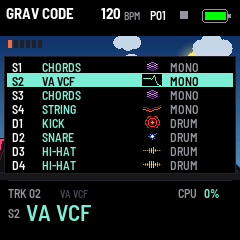
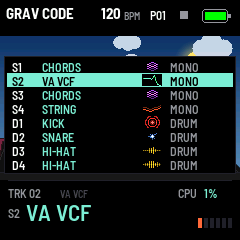
feat(grav-code): 0.29.1, the night alive; the heaps dark by day; the level at the bottom right
At night the moon is at the top right, its light shimmering, its glow breathing, a ripple of light going out from
it; the stars come out, shine, fade and come out again elsewhere, the brighter ones flashing at the hi-hats, and a
shooting star crosses now and then. By day the terricons are dark, their tracks' colours only on their rims. The
selected track's level moves to the right of HOME's bottom band.

diff --git a/grav-code/app.c b/grav-code/app.c
@@ -3483,6 +3483,37 @@ static void sky_light(int32_t cx, int32_t cy, float r, float g, uint16_t c, uint
     }
 }
 
+/* (0.29.1) the moon, at the top right: a crescent, its light shimmering, its glow breathing, a ripple of light going
+ * out from it now and again */
+static void draw_moon(int32_t cx, int32_t cy, int32_t base, float time)
+{
+    const float r = 12.0f, g = 16.0f + 3.0f * fm_sinf(time * 0.6f);
+    const float a = 0.22f + 0.08f * fm_sinf(time * 0.9f) + 0.05f * fm_sinf(time * 2.3f);
+    float ring = time * 5.0f;
+    ring -= fm_floorf(ring / 19.0f) * 19.0f;
+    const uint16_t lit = mix565(RGB(225, 222, 190), RGB(255, 251, 230), (int32_t)(128.0f + 127.0f * fm_sinf(time * 1.3f)));
+    const int32_t e = (int32_t)(r + g) + 2;
+    for (int32_t y = cy - e; y <= cy + e; y++) {
+        if (y < 0 || y >= base)
+            continue;
+        const uint16_t sky = sky_at(y, base);
+        for (int32_t x = cx - e; x <= cx + e; x++) {
+            const float fx = (float)(x - cx), fy = (float)(y - cy), d = fm_sqrtf(fx * fx + fy * fy);
+            if (d <= r) {                    /* the crescent: the disc but for its dark part */
+                const float ox = fx - 6.0f, oy = fy + 4.0f, dd = fm_sqrtf(ox * ox + oy * oy);
+                if (dd > 11.0f)              /* (softer towards the dark) */
+                    cv_rect(x, y, 1, 1, mix565(sky, lit, (int32_t)(256.0f * fm_minf(1.0f, (dd - 11.0f) * 0.7f + 0.35f))));
+                continue;
+            }
+            if (d > r + g)
+                continue;
+            const float k = 1.0f - (d - r) / g, w = d - r - ring;
+            const float glow = a * k * k + 0.12f * fm_expf(-w * w / 3.0f) * (1.0f - ring / 19.0f);
+            cv_rect(x, y, 1, 1, mix565(sky, RGB(230, 230, 205), (int32_t)(256.0f * fm_minf(1.0f, glow))));
+        }
+    }
+}
+
 static void draw_sky(int32_t base, uint32_t now)
 {
     if (set.sky == SKY_OFF)
@@ -3519,17 +3550,49 @@ static void draw_sky(int32_t base, uint32_t now)
             }
         }
     } else {
-        const float hat = sky_flare(LOOK_HAT, now, 90.0f);   /* the stars, twinkling at each hi-hat */
-        for (uint32_t i = 0; i < 46u; i++) {
-            const int32_t x = (int32_t)(ic_hash(i * 2u + 1u) % 240u), y = 4 + (int32_t)(ic_hash(i * 2u + 2u) % 92u);
-            const int bright = i % 3u == 0u;
-            if (y >= base)
+        const float hat = sky_flare(LOOK_HAT, now, 90.0f);
+        for (uint32_t i = 0; i < 56u; i++) { /* the stars (0.29.1): each comes out, shines a few seconds, fades and
+                                              * comes out again elsewhere; twinkling, the brighter flashing at each
+                                              * hi-hat; white, some bluish, some warm */
+            const float period = 5.0f + 5.0f * ic_rnd(i * 3u + 1u);
+            float ph = time / period + ic_rnd(i * 3u + 2u);
+            const uint32_t cycle = (uint32_t)ph;
+            ph -= (float)cycle;
+            const float life = ph < 0.2f ? ph * 5.0f : ph < 0.7f ? 1.0f : ph < 0.9f ? (0.9f - ph) * 5.0f : 0.0f;
+            if (life <= 0.0f)
                 continue;
-            const float tw = 0.5f + 0.5f * fm_sinf(time * 2.0f + (float)i * 1.7f) + (bright ? hat * 0.8f : 0.0f);
-            const uint16_t c = mix565(sky_at(y, base), RGB(255, 255, 240), (int32_t)(256.0f * fm_minf(1.0f, 0.25f + 0.6f * tw)));
-            cv_rect(x, y, bright ? 2 : 1, bright ? 2 : 1, c);
+            const uint32_t h = ic_hash(i * 977u + cycle * 131u);
+            const int32_t x = (int32_t)(h % 240u), y = 2 + (int32_t)((h >> 8) % 100u);
+            if (y >= base - 4)
+                continue;
+            const int bright = i % 5u == 0u;
+            const float tw = fm_minf(1.0f, ((0.7f + 0.3f * fm_sinf(time * 3.0f + (float)i * 1.7f)) +
+                                            (bright ? hat * 0.8f : 0.0f)) * life);
+            const uint16_t star = i % 7u == 3u ? RGB(200, 220, 255) : i % 7u == 5u ? RGB(255, 235, 200) : RGB(255, 255, 240);
+            if (bright) {                    /* (a cross of light) */
+                const uint16_t d = mix565(sky_at(y, base), star, (int32_t)(110.0f * tw));
+                cv_rect(x - 1, y, 3, 1, d);
+                cv_rect(x, y - 1, 1, 3, d);
+            }
+            cv_rect(x, y, 1, 1, mix565(sky_at(y, base), star, (int32_t)(256.0f * tw)));
         }
-        sky_light(70, 24, 12.0f, 15.0f, RGB(240, 236, 200), RGB(230, 230, 200), 0.25f, base, 6, -4, 11.0f);   /* the moon */
+        {                                    /* now and then a shooting star, down to the left */
+            const uint32_t n = (uint32_t)(time / 11.0f);
+            const float f0 = (time - (float)n * 11.0f) / 0.7f;
+            if (f0 < 1.0f) {
+                const uint32_t h = ic_hash(n * 7919u + 17u);
+                const float x0 = 60.0f + (float)(h % 150u), y0 = 4.0f + (float)((h >> 8) % 24u);
+                for (int32_t k = 0; k < 12; k++) {
+                    const float f = f0 - (float)k * 0.03f;
+                    const int32_t x = (int32_t)(x0 - f * 70.0f), y = (int32_t)(y0 + f * 30.0f);
+                    if (f < 0.0f)
+                        break;
+                    if (y >= 0 && y < base)
+                        cv_rect(x, y, 1, 1, mix565(sky_at(y, base), C_WHITE, 230 - k * 18));
+                }
+            }
+        }
+        draw_moon(196, 26, base, time);
     }
 }
 
@@ -3542,7 +3605,8 @@ static void draw_terricons(int32_t dy, uint32_t now)
 {
     const float time = (float)(now % 600000u) * 0.001f;
     const int32_t base = TC_BASE + dy;
-    const uint16_t earth = set.sky == SKY_DAY ? RGB(18, 16, 22) : C_BLACK;   /* (the heaps' black, by day dark earth) */
+    const int day = set.sky == SKY_DAY;
+    const uint16_t earth = day ? RGB(18, 16, 22) : C_BLACK;   /* (the heaps' black, by day dark earth) */
     int16_t px[2 * TC_N + 1], py[2 * TC_N + 1];
     draw_sky(base, now);
     for (uint32_t o = 0; o < SEQ_TRACKS; o++) {
@@ -3582,20 +3646,24 @@ static void draw_terricons(int32_t dy, uint32_t now)
             if (k) {
                 const uint32_t at = (uint32_t)((float)TC_N * (1.0f + 0.12f * (float)k) + 0.5f);
                 cv_line(px[at], py[at] + 3, TC_X[t] + (int32_t)(0.42f * (float)k * (float)TC_HALF), base - 1,
-                        mix565(earth, muted ? C_DIM : TRACK_HUE[t], 70));
+                        mix565(earth, day ? RGB(120, 114, 108) : muted ? C_DIM : TRACK_HUE[t], 70));
             }
         if (muted)                           /* silent: grey, still */
             thick_line(px, py, 2u * TC_N + 1u, C_DIM, sel ? 2 : 1);
-        else if (amp < 0.02f)                /* quiet: its colour, dim */
-            thick_line(px, py, 2u * TC_N + 1u, mix565(C_BLACK, TRACK_HUE[t], sel ? 200 : 120), sel ? 2 : 1);
+        else if (amp < 0.02f)                /* quiet: its colour, dim (by day, dark: 0.29.1) */
+            thick_line(px, py, 2u * TC_N + 1u, mix565(earth, TRACK_HUE[t], day ? (sel ? 120 : 70) : sel ? 200 : 120),
+                       sel ? 2 : 1);
         else {                               /* sounding: a glow under, brighter the louder; its colour on it */
-            thick_line(px, py, 2u * TC_N + 1u, mix565(C_BLACK, TRACK_HUE[t], 40 + (int32_t)(amp * 90.0f)), sel ? 5 : 4);
-            thick_line(px, py, 2u * TC_N + 1u, TRACK_HUE[t], 2);
+            thick_line(px, py, 2u * TC_N + 1u,
+                       mix565(earth, TRACK_HUE[t], day ? 20 + (int32_t)(amp * 45.0f) : 40 + (int32_t)(amp * 90.0f)),
+                       sel ? 5 : 4);
+            thick_line(px, py, 2u * TC_N + 1u, day ? mix565(earth, TRACK_HUE[t], 100 + (int32_t)(fm_minf(amp, 1.0f) * 70.0f))
+                                                   : TRACK_HUE[t], 2);
         }
         if (sel) {                           /* the selected track's: a white core; over its peak a marker, its name */
             const int32_t tx = px[TC_N], ty = py[TC_N];
             if (!muted)
-                thick_line(px, py, 2u * TC_N + 1u, C_WHITE, 1);
+                thick_line(px, py, 2u * TC_N + 1u, day ? mix565(earth, C_WHITE, 170) : C_WHITE, 1);
             for (int32_t k = 0; k < 6; k++)
                 cv_rect(tx - k, ty - 5 - k, 2 * k + 1, 1, C_WHITE);
             cv_text(tx - text_w(&FONT_T, TRACK_NAME[t]) / 2, ty - 24, &FONT_T, TRACK_NAME[t], C_WHITE);
@@ -3604,11 +3672,16 @@ static void draw_terricons(int32_t dy, uint32_t now)
     cv_rect(0, base + 1, 240, 144, set.sky == SKY_DAY ? RGB(26, 24, 28) : C_BLACK);   /* the ground (the feet's glow
                                                                                      * cut) */
     cv_rect(0, base, 240, 1, C_LINE);
-    {                                        /* the selected track's level, top left */
-        const int32_t lv = (int32_t)(ui.level[track_sel] * 6.0f + 0.5f);
-        for (int32_t k = 0; k < 6; k++)
-            cv_rect(8 + k * 6, 4 + dy, 4, 8, k < lv ? TRACK_HUE[track_sel] : C_LINE);
-    }
+}
+
+/* the selected track's level, six segments in its colour: in HOME's bottom band, at its right (0.29.1) */
+#define LEVEL_X 198
+#define LEVEL_Y 38
+static void draw_level(int32_t x, int32_t y)
+{
+    const int32_t lv = (int32_t)(ui.level[track_sel] * 6.0f + 0.5f);
+    for (int32_t k = 0; k < 6; k++)
+        cv_rect(x + k * 6, y, 4, 10, k < lv ? TRACK_HUE[track_sel] : C_LINE);
 }
 
 /* SEQ (step mode): every track's steps of the page shown, a row each, in the track's colour (its terricon's, 0.28):
@@ -3856,10 +3929,13 @@ static void draw_splash(void)
 /* only the strip under the track's line (the steps moved, a flash, the cursor): not the whole screen */
 static void draw_seq_grid(void)
 {
-    if (active_page == PAGE_SEQ && !ui.step_mode) {   /* HOME's terricons: the whole page */
+    if (active_page == PAGE_SEQ && !ui.step_mode) {   /* HOME's terricons: the whole page; the level, in the band */
         cv_begin(240, 144, C_BLACK);
         draw_terricons(0, plat_ms());
         cv_blit(0, 36);
+        cv_begin(36, 10, C_BLACK);
+        draw_level(0, 0);
+        cv_blit(LEVEL_X, 180 + LEVEL_Y);
         return;
     }
     if (active_page == PAGE_MIXER) {
@@ -4072,6 +4148,7 @@ static void draw_home_band(void)
     cv_text(172 - text_w(&FONT_XS, state), 6, &FONT_XS, state,   /* (ending clear of CPU) */
             silent || seq.mute >> tr & 1u ? C_RED : C_HI);
     draw_cpu(178, 6);
+    draw_level(LEVEL_X, LEVEL_Y);
     if (ui.shown_count) {                    /* counting in: the beats to come */
         t[0] = 'I'; t[1] = 'N'; t[2] = ' ';
         int_text(ui.shown_count, t + 3);

diff --git a/README.ru.md b/README.ru.md
@@ -13,14 +13,15 @@
 
 ---
 
-Текущая версия: **0.29.0**, небо над HOME: днём голубое, солнце вспыхивает на бочке, облака плывут в темпе; ночью
-луна и звёзды, мерцающие на хэтах (GLO, страница SCREEN, K2 SKY: OFF, DAY, NIGHT); терриконы как в Донбассе —
-усечённые вершины, террасы, промоины. Ручки шагового режима вверху страницы. До этого: 0.28 — гряда из восьми
-терриконов на HOME, по террикону на дорожку, склоны изгибаются от звука своей дорожки по-своему для каждого движка,
-ряды шагового режима в тех же цветах, иконки всех движков перерисованы неоновыми картинками; 0.27 — браузер пресетов
-на PRESET и VOL в микшере — свой фейдер (0.27.1: VOICES больше не глушит другие дорожки; 0.27.2: код почищен); 0.26
-— микшер на SEL (громкость, посылы, мьют, соло); 0.25 — доводка записи и выбор цветов на GLO; 0.24 — живая запись.
-HOME листает страницы; HOME зажат + SELECT переключает их быстро.
+Текущая версия: **0.29.1** (ночь ожила: луна справа переливается, звёзды гаснут и зажигаются; днём терриконы тёмные;
+уровень в нижней полосе), на основе 0.29.0, небо над HOME: днём голубое, солнце вспыхивает на бочке, облака плывут в
+темпе; ночью луна и звёзды, мерцающие на хэтах (GLO, страница SCREEN, K2 SKY: OFF, DAY, NIGHT); терриконы как в
+Донбассе — усечённые вершины, террасы, промоины. Ручки шагового режима вверху страницы. До этого: 0.28 — гряда из
+восьми терриконов на HOME, по террикону на дорожку, склоны изгибаются от звука своей дорожки по-своему для каждого
+движка, ряды шагового режима в тех же цветах, иконки всех движков перерисованы неоновыми картинками; 0.27 — браузер
+пресетов на PRESET и VOL в микшере — свой фейдер (0.27.1: VOICES больше не глушит другие дорожки; 0.27.2: код
+почищен); 0.26 — микшер на SEL (громкость, посылы, мьют, соло); 0.25 — доводка записи и выбор цветов на GLO; 0.24 —
+живая запись. HOME листает страницы; HOME зажат + SELECT переключает их быстро.
 [Все параметры и управление](grav-code/docs/SOUND_CONTROLS.md).
 
 <p align="center"><img src="grav-code/docs/img/seq-playing.gif" width="490" alt="Один такт в симуляторе: терриконы HOME и сетка всех восьми дорожек в шаговом режиме"> <img src="grav-code/docs/img/sound-dials.gif" width="240" alt="Ручки страницы звука плавно доходят до значения, в симуляторе"></p>
@@ -127,7 +128,7 @@ K1 — TIMBRE, K2 — MORPH, K3 — HARMONICS (на экране — свои н
 2. Соберите сайт и запустите его (или используйте опубликованный):
 
    ```bash
-   python3 tools/make_site.py grav-code grav-code/build/grav_code-0.29.0.fwsc 0.29.0 grav-code/build/site
+   python3 tools/make_site.py grav-code grav-code/build/grav_code-0.29.1.fwsc 0.29.1 grav-code/build/site
    python3 -m http.server 8080 --directory grav-code/build/site
    ```
 
@@ -142,7 +143,7 @@ GRAV CODE собирается инструментом fm1-base `tools/build.py
 
 ```bash
 export JIELI_TOOLCHAIN="$HOME/.jieli/toolchain" AC79_SDK="$HOME/fw-AC79_AIoT_SDK"
-python3 tools/build.py grav-code --release 0.29.0      # grav-code/build/grav_code-0.29.0.fwsc
+python3 tools/build.py grav-code --release 0.29.1      # grav-code/build/grav_code-0.29.1.fwsc
 python3 tools/build.py grav-code --host                # симулятор для тестов:
 grav-code/build/host/grav_code_host grav-code/tests/basic.txt grav-code/build/host
 python3 tools/build.py grav-code --web                 # эмулятор в браузере (Emscripten)

diff --git a/README.md b/README.md
@@ -13,14 +13,16 @@ FM-1's own panel and screen.
 
 ---
 
-Current version: **0.29.0**, HOME under a sky: by day a blue one, its sun flaring at each kick, clouds drifting at
-the tempo's pace; by night a moon and stars twinkling at the hi-hats (GLO's SCREEN, K2 SKY: OFF, DAY, NIGHT); the
-terricons as the Donbas has them, flat-topped, terraced, gullied. Step mode's knobs at the top of its page. Before
-it: 0.28, HOME's ridge of eight terricons, a track each, bending with each track's own sound in its engine's way,
-step mode's rows in the same colours, and every engine's icon redrawn as a neon picture in its own colour; 0.27, the
-presets' browser on PRESET and the mixer's VOL its own fader (0.27.1: VOICES no longer silences other tracks;
-0.27.2: the code tidied); 0.26, the mixer on SEL (levels, sends, mutes, solos); 0.25, recording finished and the
-colours chosen on GLO; 0.24, live recording. HOME advances pages; hold HOME and turn SELECT to jump.
+Current version: **0.29.1** (the night alive: the moon at the right, shimmering, stars coming and going; the heaps
+dark by day; the level in the bottom band), on 0.29.0's HOME under a sky: by day a blue one, its sun flaring at each
+kick, clouds drifting at the tempo's pace; by night a moon and stars twinkling at the hi-hats (GLO's SCREEN, K2 SKY:
+OFF, DAY, NIGHT); the terricons as the Donbas has them, flat-topped, terraced, gullied. Step mode's knobs at the top
+of its page. Before it: 0.28, HOME's ridge of eight terricons, a track each, bending with each track's own sound in
+its engine's way, step mode's rows in the same colours, and every engine's icon redrawn as a neon picture in its own
+colour; 0.27, the presets' browser on PRESET and the mixer's VOL its own fader (0.27.1: VOICES no longer silences
+other tracks; 0.27.2: the code tidied); 0.26, the mixer on SEL (levels, sends, mutes, solos); 0.25, recording
+finished and the colours chosen on GLO; 0.24, live recording. HOME advances pages; hold HOME and turn SELECT to
+jump.
 [All sound controls](grav-code/docs/SOUND_CONTROLS.md).
 
 <p align="center"><img src="grav-code/docs/img/seq-playing.gif" width="490" alt="One bar playing, in the simulator: HOME's terricons, and step mode's grid of all eight tracks"> <img src="grav-code/docs/img/sound-dials.gif" width="240" alt="The sound page's knobs easing to their values, in the simulator"></p>
@@ -125,7 +127,7 @@ manual has the details: [grav-code/docs/MANUAL.md](grav-code/docs/MANUAL.md).
 2. Make the site and serve it (or use the published one):
 
    ```bash
-   python3 tools/make_site.py grav-code grav-code/build/grav_code-0.29.0.fwsc 0.29.0 grav-code/build/site
+   python3 tools/make_site.py grav-code grav-code/build/grav_code-0.29.1.fwsc 0.29.1 grav-code/build/site
    python3 -m http.server 8080 --directory grav-code/build/site
    ```
 
@@ -140,7 +142,7 @@ JieLi's AC79 SDK.
 
 ```bash
 export JIELI_TOOLCHAIN="$HOME/.jieli/toolchain" AC79_SDK="$HOME/fw-AC79_AIoT_SDK"
-python3 tools/build.py grav-code --release 0.29.0      # grav-code/build/grav_code-0.29.0.fwsc
+python3 tools/build.py grav-code --release 0.29.1      # grav-code/build/grav_code-0.29.1.fwsc
 python3 tools/build.py grav-code --host                # the simulator, for the tests:
 grav-code/build/host/grav_code_host grav-code/tests/basic.txt grav-code/build/host
 python3 tools/build.py grav-code --web                 # the browser emulator (Emscripten)

diff --git a/grav-code/docs/MANUAL.md b/grav-code/docs/MANUAL.md
@@ -236,7 +236,7 @@ page and its row red in step mode; a soloed one shows SOLO. The keys still play 
 
 ### GLO (GLO)
 
-![The GLO page: the voices of S1..S4 and those free, S1's VOICES MONO, VELOCITY ON, METRONOME REC; ID FM-1_73002900, version 0.29.0](img/screen-glo.png "The GLO page")
+![The GLO page: the voices of S1..S4 and those free, S1's VOICES MONO, VELOCITY ON, METRONOME REC; ID FM-1_73002901, version 0.29.1](img/screen-glo.png "The GLO page")
 
 The firmware and its global settings:
 
@@ -297,12 +297,15 @@ one ground line, each in a colour of its own (rose, orange, amber, yellow, green
 right). They are spoil heaps as the Donbas has them (since 0.29): their tops flat, a terrace on each slope, gullies
 running down them. Each has its own height and place; where they overlap, the lower one stands in front.
 
-![HOME at night: the moon, the stars, the terricons in their colours](img/screen-night.png "HOME at night")
+![HOME at night, in the simulator: the moon at the top right, shimmering; stars coming out and fading; the terricons in their colours](img/home-night.gif "HOME at night")
 
 - **The sky** (GLO's SCREEN, K2 SKY; 0.29): by DAY, as it comes, a blue sky, darker up, its sun at the top right
-  flaring at each kick, three clouds drifting across at the tempo's pace, the heaps dark earth against it; by
-  NIGHT a moon at the top left and stars twinkling, the brighter ones at each hi-hat; OFF, black as before. With a
-  sky the page moves on its own, about 20 times a second while all is quiet.
+  flaring at each kick, three clouds drifting across at the tempo's pace, the heaps dark against it (their tracks'
+  colours only on their rims, a little brighter as they sound; 0.29.1); by NIGHT a crescent moon at the top right,
+  its light shimmering, its glow breathing, a ripple of light going out from it now and again, and stars that come
+  out, shine a few seconds, fade and come out again elsewhere, twinkling, the brighter ones flashing at each hi-hat;
+  now and then a shooting star (0.29.1); OFF, black as before. With a sky the page moves on its own, about 20 times
+  a second while all is quiet.
 
 - **A track with no step on** in the pattern has no terricon; its place stays empty, so every one keeps its place.
 - **A quiet track's terricon** is its colour, dim and still. **A sounding one** lives: its slopes bend with the
@@ -311,7 +314,7 @@ running down them. Each has its own height and place; where they overlap, the lo
   hits, a snare a sharper one, a hi-hat small quick teeth, a bass big smooth waves, a pad slow ones.
 - **A muted track's terricon** (or one silenced by another's solo, the mixer) is grey and still.
 - **The selected track's terricon** is thicker, white at its core, with a marker and its name over its top; its
-  level is at the top left. SELECT picks another.
+  level, six segments in its colour, is at the right of the bottom band (0.29.1). SELECT picks another.
 - **The bottom band:** TRK 03 and its engine, MUTE / SOLO / FREEZE, CPU; its sound's name large (a * once changed
   after its preset). A moment's message (TEMPO 120, PATTERN ...) takes its place, and while counting in IN 4 .. 1.
 - **K1 TEMPO** (30 to 300 BPM, a step is a 16th; the song's), **K2 SWING** (the selected track's, 50 % straight to

diff --git a/grav-code/docs/RELEASE_0.29.1.md b/grav-code/docs/RELEASE_0.29.1.md
@@ -1,0 +1,34 @@
+# GRAV CODE 0.29.1 — the night alive
+
+Package: `grav_code-0.29.1.fwsc`, identity `FM-1_73002901`. After 0.29.0 (`cf5121f`: HOME under a sky).
+
+![HOME at night, in the simulator: the moon shimmering, stars coming and going, a shooting star](img/home-night.gif)
+
+Asked for after 0.29.0 ran on the FM-1:
+
+- **The moon at the right** (where the sun is by day), and alive: its light shimmers, its glow breathes in and out,
+  and a ripple of light goes out from it now and again. Its crescent is softer towards its dark part.
+- **The stars come and go.** Each one comes out, shines a few seconds (5 to 10), fades and comes out again
+  somewhere else, each at its own pace, so the sky is never the same twice; they twinkle as they shine, and the
+  brighter ones (a small cross of light) flash at each hi-hat. Some are white, some bluish, some warm. Now and then
+  (every 11 seconds) a shooting star crosses down to the left.
+- **The heaps dark by day.** Under the blue sky the terricons are dark, as spoil heaps are: their tracks' colours
+  only on their rims, low, a little brighter as they sound; their gullies grey. At night and with the sky OFF they
+  keep 0.28's colours.
+- **The level at the bottom right.** The selected track's level, six segments in its colour, is in HOME's bottom
+  band now, at its right, where it was empty; the sky's corners are the sun's and the moon's. It still follows the
+  sound every frame (a small piece of the band redrawn with the page).
+
+Validation on 29 October 2026:
+
+- All 18 simulator scenarios pass, and the screenshot script.
+- The pictures are new: HOME by day and at night, the lists over it, GLO's version, the playing GIF, and an
+  animated night (`home-night.gif`) in the manual.
+- The sequencer, pattern bank, preset and 1018 bit-exact dual-core tests pass.
+- Device build/compiler checks pass: image **421828 B** (+2032), RAM **92568 / 98304 B** (**5736 B free**), pool
+  **332968 / 344064 B**. Package **611496 B**; no soft-double helpers, unsafe instruction patterns or direct register
+  access introduced.
+
[1 lines of base64/hex data omitted]
+
+Not yet installed on the FM-1.

diff --git a/grav-code/README.md b/grav-code/README.md
@@ -63,13 +63,13 @@ Python with Pillow (the fonts).
 
 ## Release and site
 
-    python3 tools/build.py grav-code --release 0.29.0    # grav-code/build/grav_code-0.29.0.fwsc, identity FM-1_73002900
+    python3 tools/build.py grav-code --release 0.29.1    # grav-code/build/grav_code-0.29.1.fwsc, identity FM-1_73002901
     python3 tools/build.py grav-code --web
-    python3 tools/make_site.py grav-code grav-code/build/grav_code-0.29.0.fwsc 0.29.0 grav-code/build/site
+    python3 tools/make_site.py grav-code grav-code/build/grav_code-0.29.1.fwsc 0.29.1 grav-code/build/site
 
 ## The pictures
 
-    python3 tools/build.py grav-code --host --release 0.29.0   # (so GLO shows the version and identity)
+    python3 tools/build.py grav-code --host --release 0.29.1   # (so GLO shows the version and identity)
     grav-code/build/host/grav_code_host grav-code/tests/screens.txt grav-code/docs/img
     python3 grav-code/docs/img/compose.py
 
